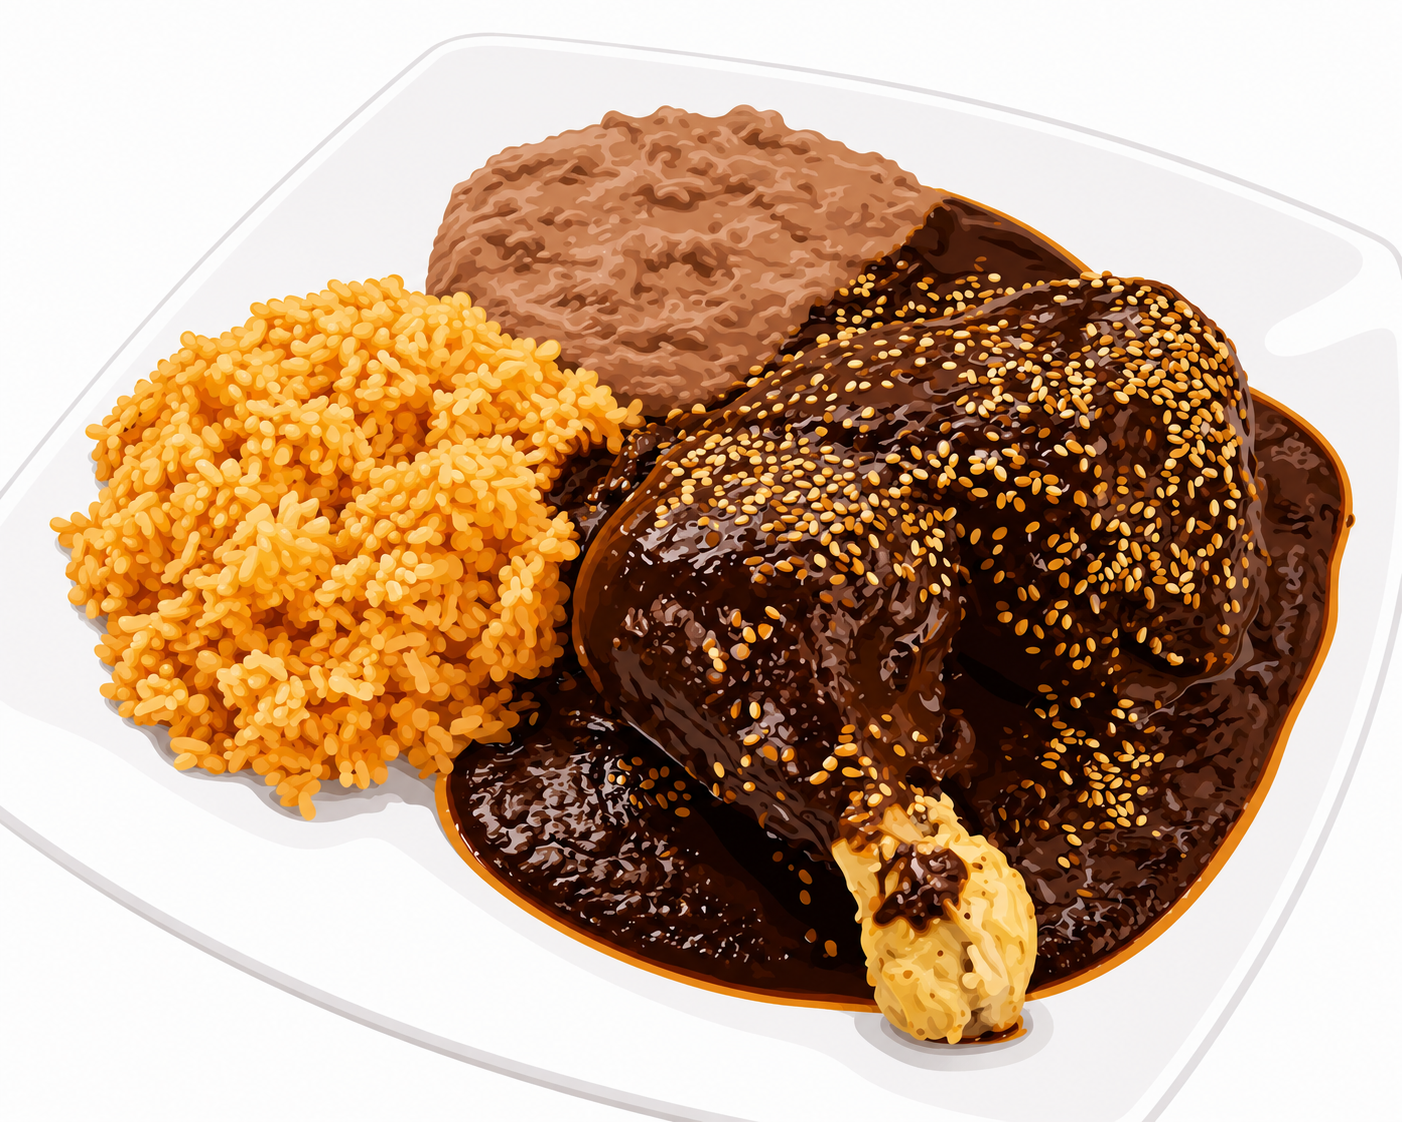
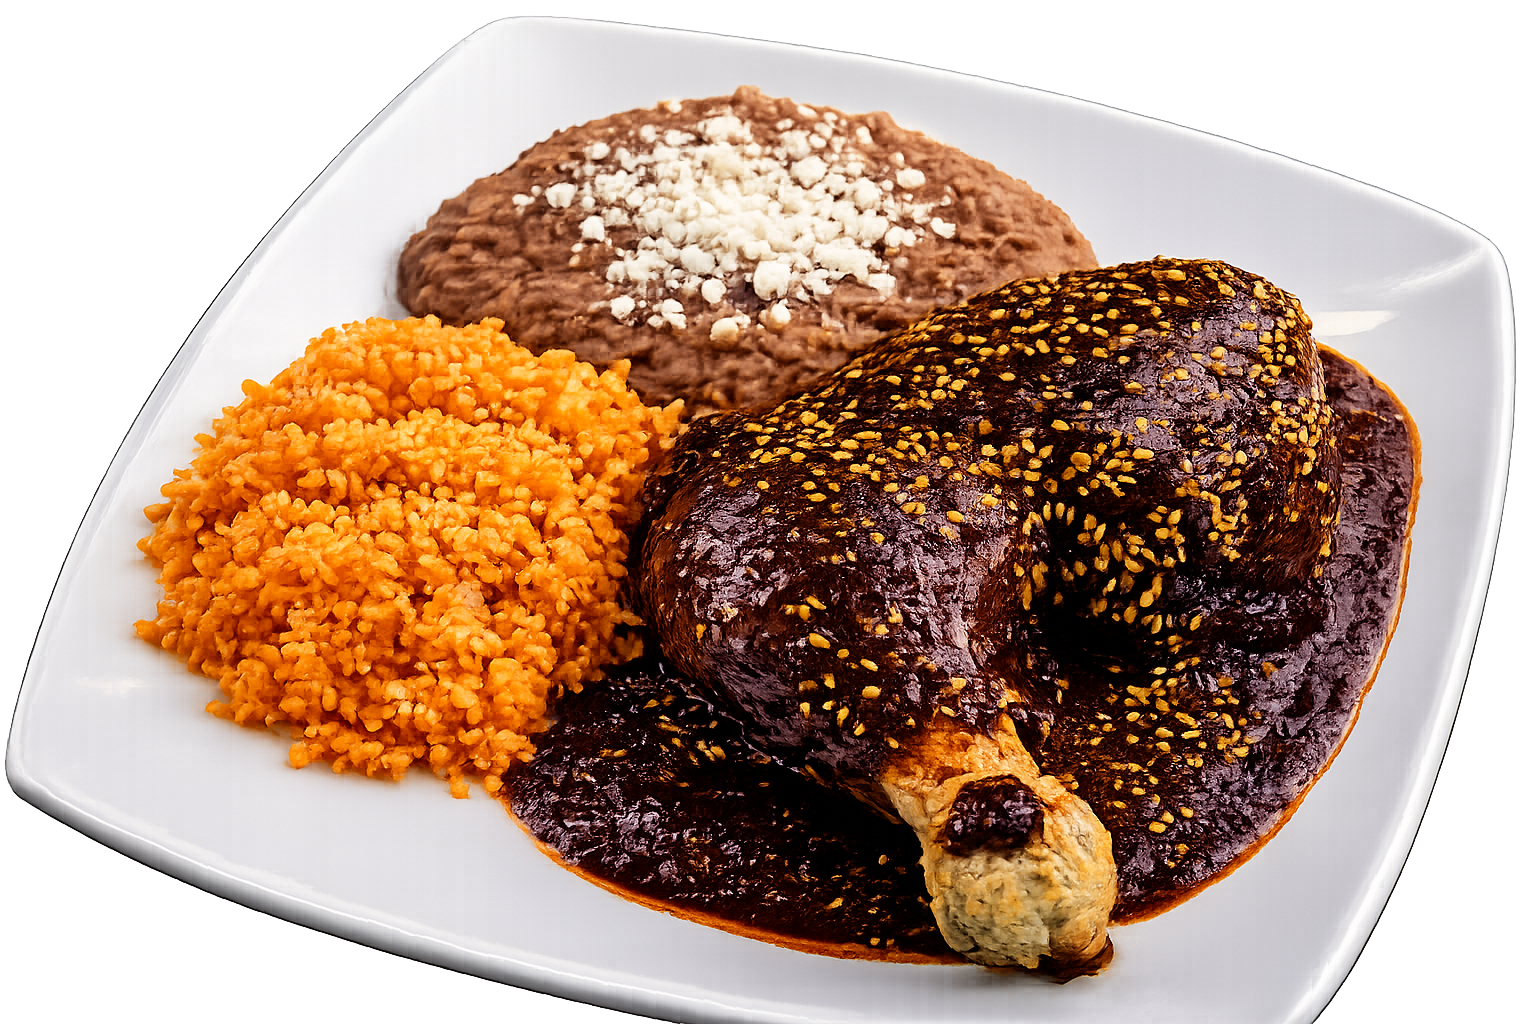
Mole update

diff --git a/index.html b/index.html
@@ -44,7 +44,7 @@
           </div>
         </div>
         <div class="hero-photo" aria-label="Mole de Cenaduría La Tía">
-          <img src="assets/img/mole-principal.png" alt="Mole de Cenaduría La Tía">
+          <img src="assets/img/mole-principal.png?v=20260607" alt="Mole de Cenaduría La Tía">
         </div>
       </div>
     </section>